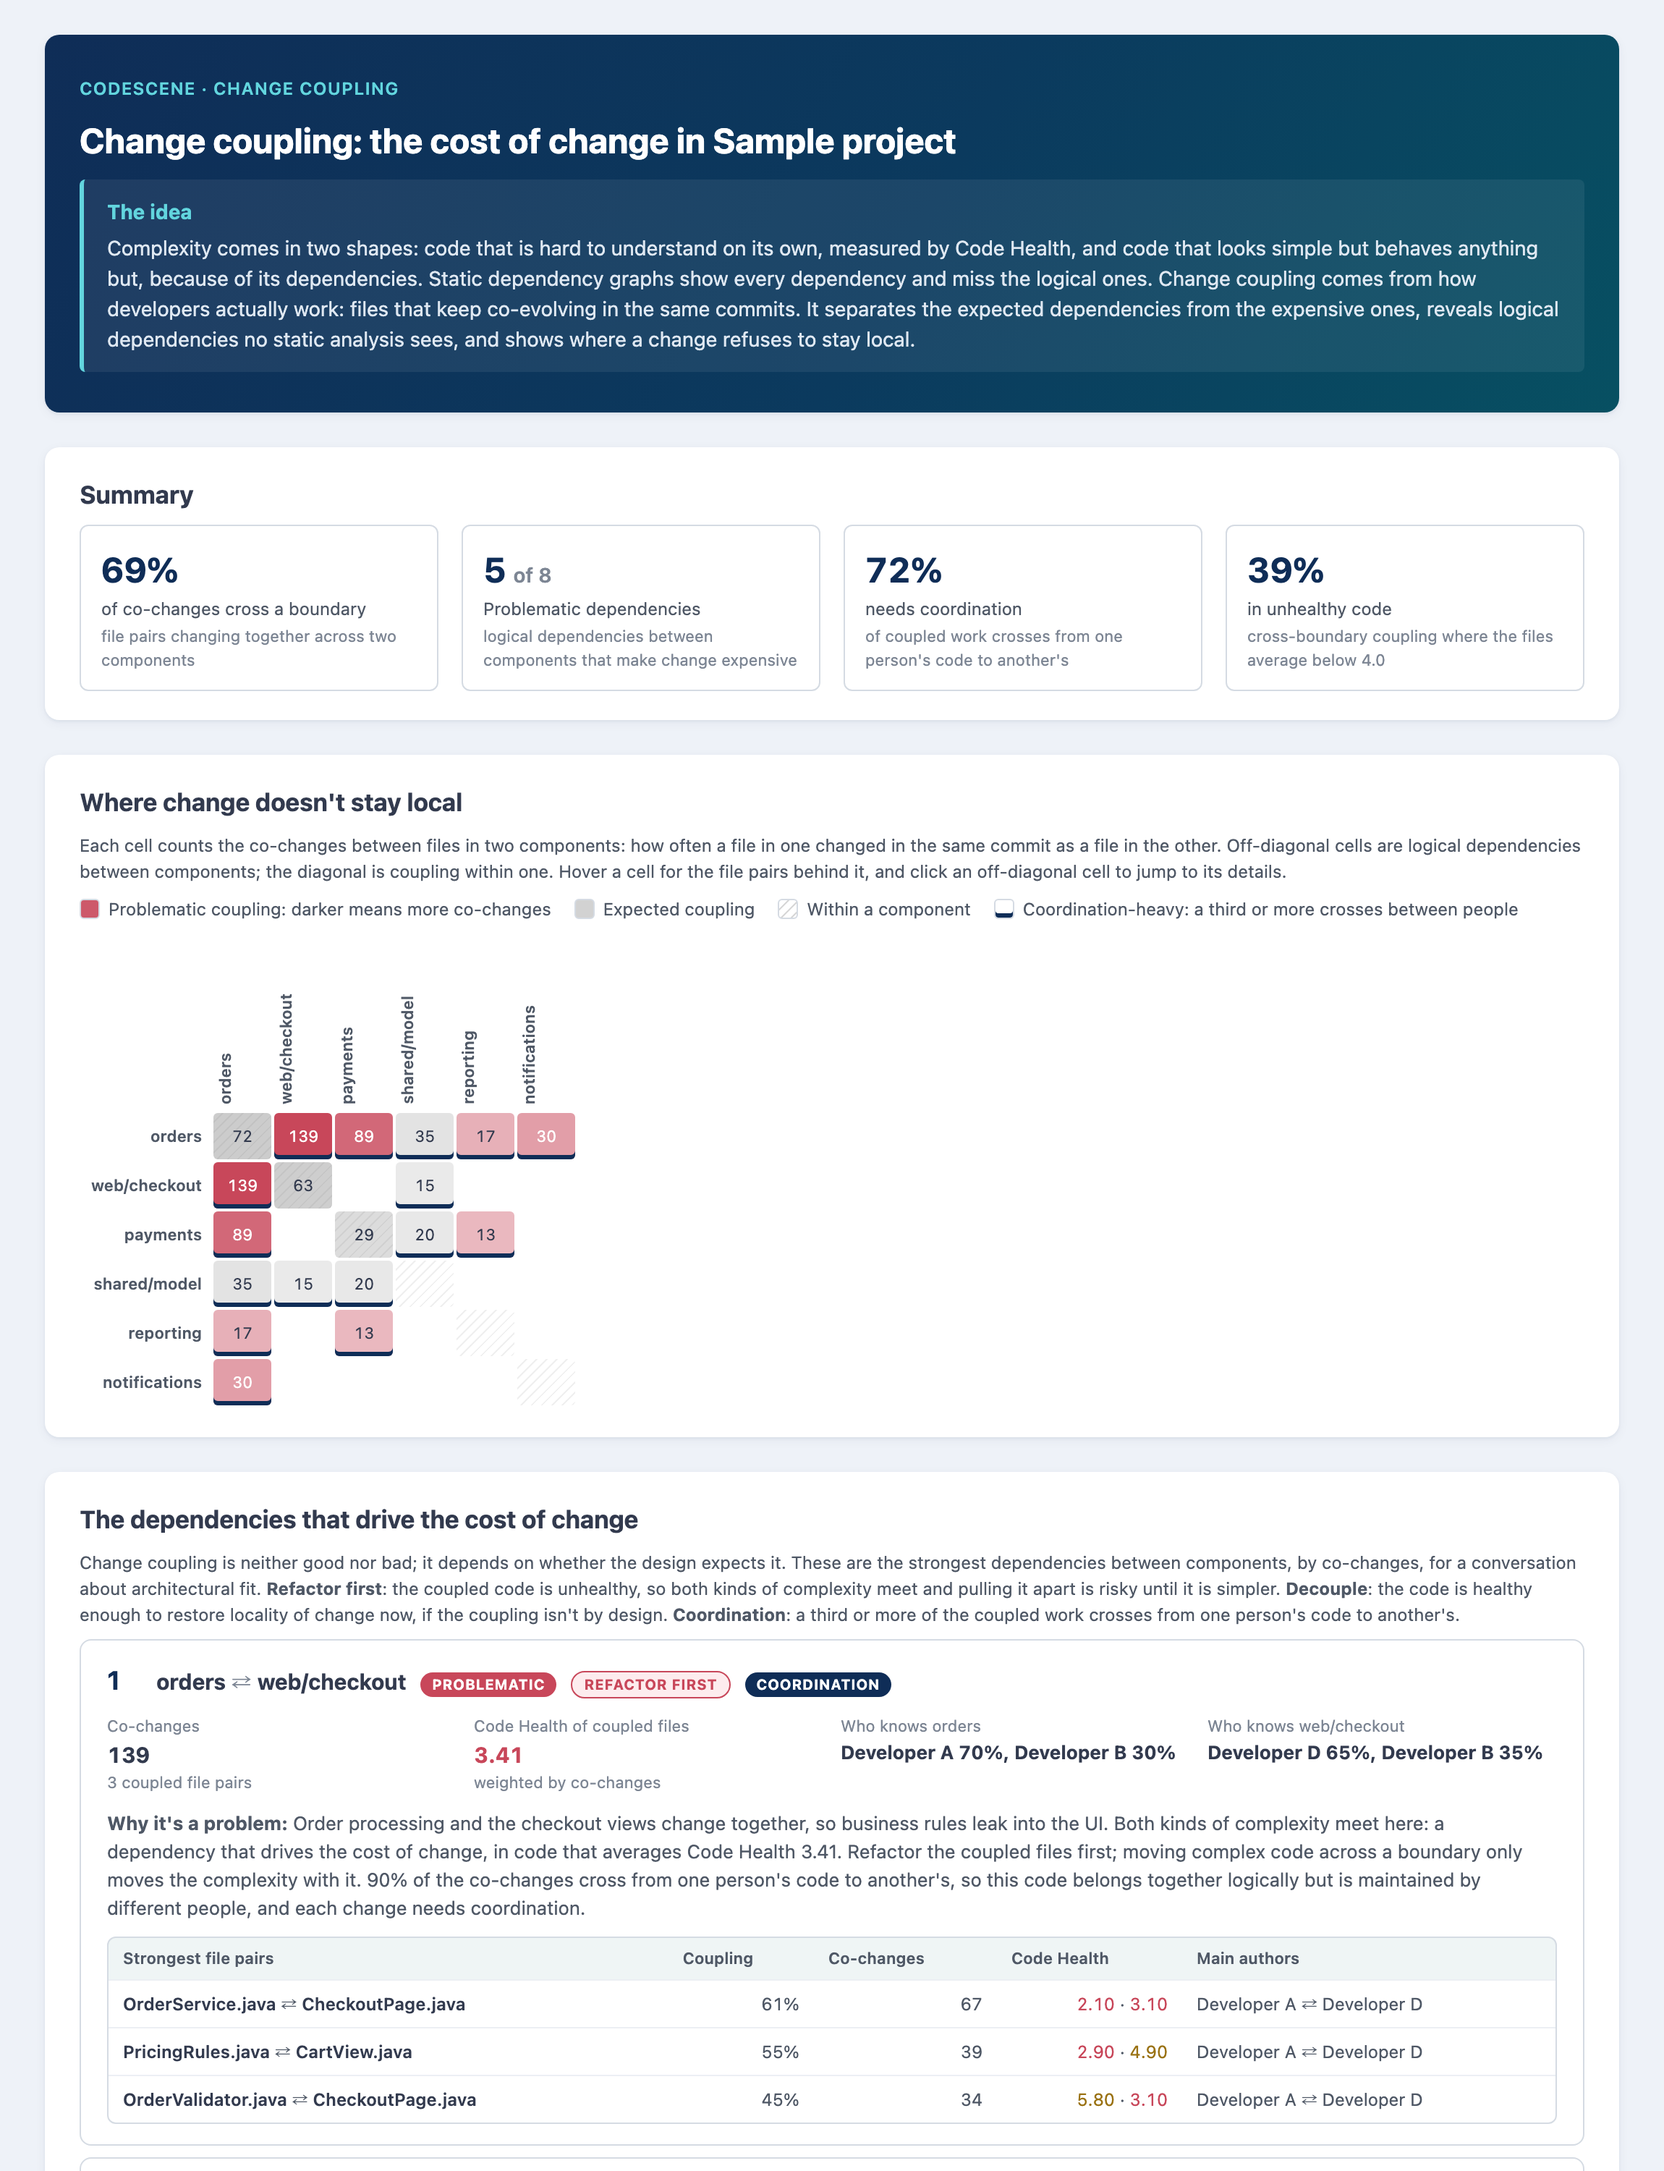
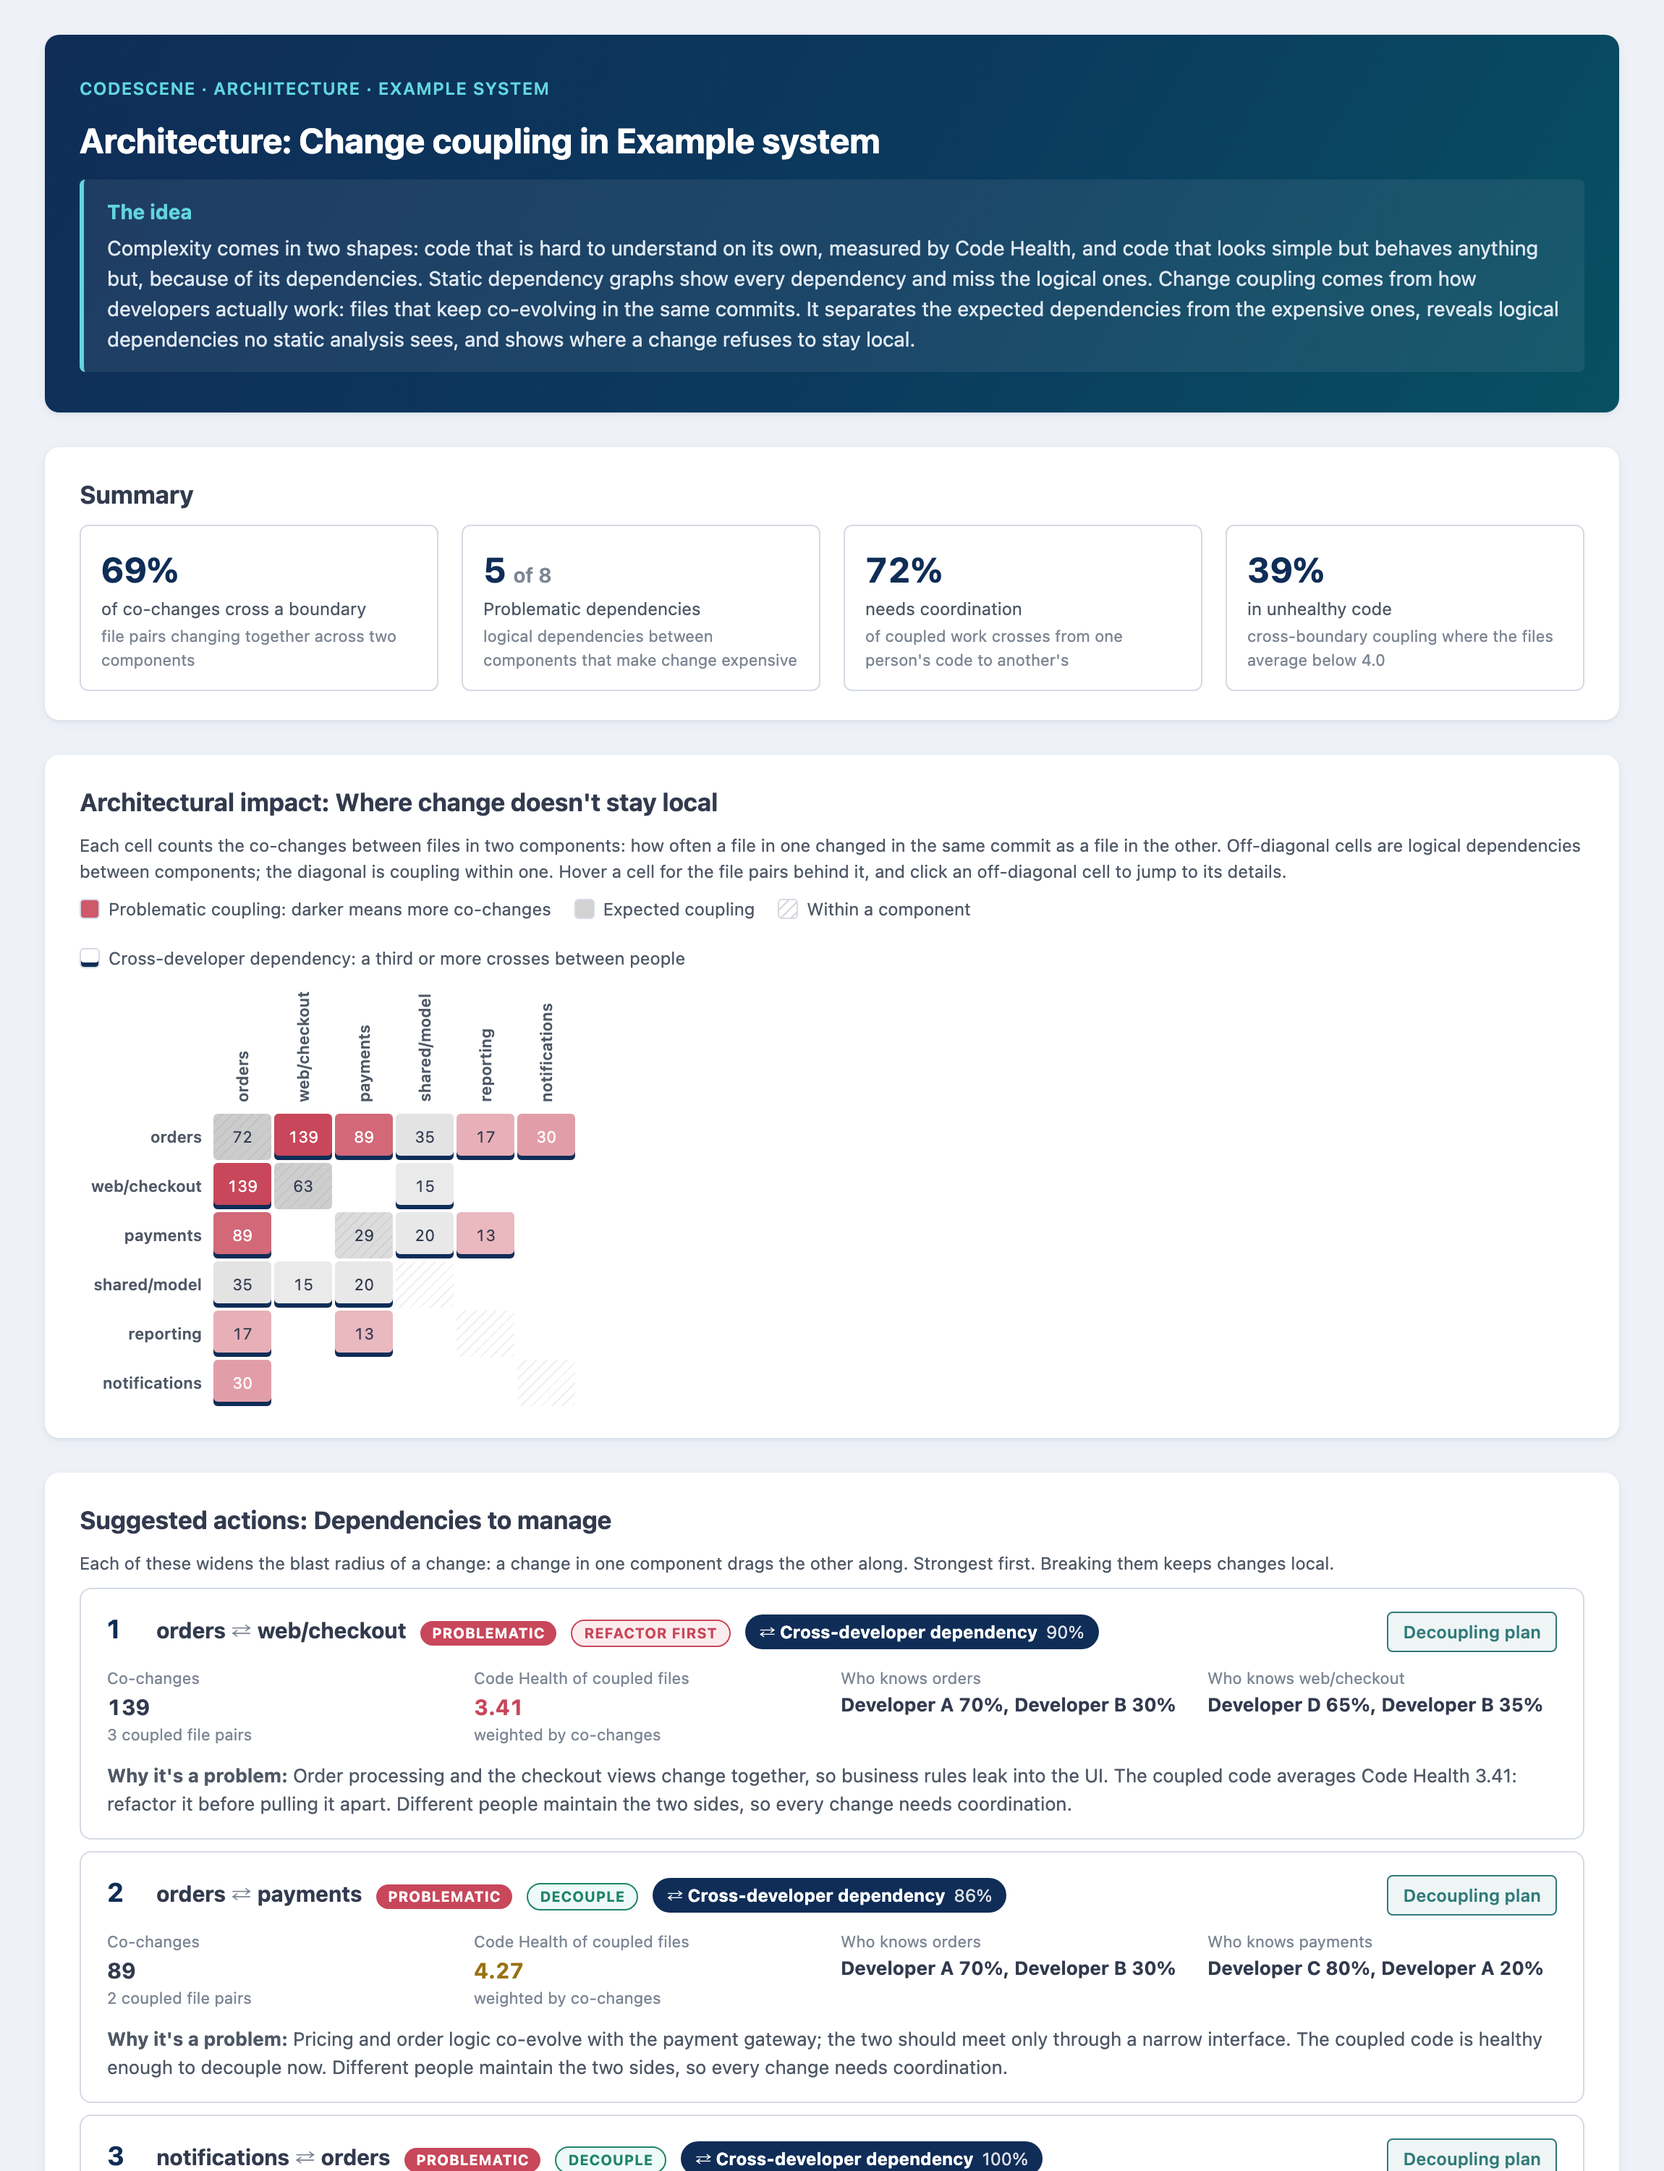
Rename the change coupling report to Architecture: Change coupling
Update the README screenshot to show the current renderer, and name the
sample project "Example system" instead of a raw placeholder.

diff --git a/skills/change-coupling/renderers/report.html b/skills/change-coupling/renderers/report.html
@@ -3,7 +3,7 @@
 <head>
 <meta charset="utf-8">
 <meta name="viewport" content="width=device-width, initial-scale=1">
-<title>Change coupling</title>
+<title>Architecture: Change coupling</title>
 <style>
   /* CodeScene theme colours. The pastel fills match the app's Code Health bubbles; the -ink variants keep
      numbers and labels readable on white, and fall back to the pastels on dark backgrounds. */
@@ -658,7 +658,7 @@
   // Page
   // -------------------------------------------------------------------------
 
-  document.title = `Change coupling · ${project.name}`;
+  document.title = `Architecture: Change coupling · ${project.name}`;
   const problematicCross = cross.filter(isProblematic);
   const expectedCross = cross.filter((e) => !isProblematic(e));
   const topCross = problematicCross.slice(0, maxDependencies);
@@ -681,8 +681,8 @@
 
   root.innerHTML = `
     <section class="hero">
-      <div class="eyebrow">CodeScene · Change coupling · ${escapeHtml(project.name)}</div>
-      <h1>Change coupling: the cost of change in ${escapeHtml(project.name)}</h1>
+      <div class="eyebrow">CodeScene · Architecture · ${escapeHtml(project.name)}</div>
+      <h1>Architecture: Change coupling in ${escapeHtml(project.name)}</h1>
       <div class="intro"><strong>The idea</strong>Complexity comes in two shapes: code that is hard to understand on its own, measured by
         Code Health, and code that looks simple but behaves anything but, because of its dependencies. Static dependency graphs show every
         dependency and miss the logical ones. Change coupling comes from how developers actually work: files that keep co-evolving in the same

diff --git a/README.md b/README.md
@@ -11,7 +11,7 @@ Everything here is generic: no project names, people or analysis numbers. Projec
 | [architectural-hotspots](skills/architectural-hotspots/SKILL.md) | Components in PAID quadrants by change activity and Code Health, with outcomes and team ROI for uplifting the ones to address first. [Details](#architectural-hotspots) |
 | [refactoring-targets](skills/refactoring-targets/SKILL.md) | CodeScene's uplift targets as a prioritized refactoring backlog for an engineering manager: why each file, where to start, who to involve, the risks to plan for and the estimated outcome, plus a refactoring spec per primary and secondary target to hand to a coding agent. [Details](#refactoring-targets) |
 | [key-person-risk](skills/key-person-risk/SKILL.md) | The project's truck factor and what leaves with each key person: CodeScene's off-boarding risks, the uplift targets that depend on one person, and the Code Health and coverage of that code. [Details](#key-person-risk) |
-| [change-coupling](skills/change-coupling/SKILL.md) | The cost of change for software architects: logical dependencies between components mined from change coupling, the coordination they force between people, and how hard each is to break given the Code Health of the coupled code. [Details](#change-coupling) |
+| [change-coupling](skills/change-coupling/SKILL.md) | The cost of change for software architects: logical dependencies between components mined from change coupling, the coordination they force between people, and how hard each is to break given the Code Health of the coupled code. [Details](#architecture-change-coupling) |
 | [portfolio-overview](skills/portfolio-overview/SKILL.md) | A one-page summary of every project you can access, for technical leaders and managers: what works well, where attention is needed, and how much of the code is AI-optimal, by hotspot Code Health. [Details](#portfolio-overview) |
 | [mcp-safeguard-insights](skills/mcp-safeguard-insights/SKILL.md) | How a project's developers use the local Code Health MCP: safeguard checks, degradations prevented before commit, uplifts, the trend over a year, the most active users and out-of-date installations. [Details](#mcp-safeguard-insights) |
 
@@ -104,11 +104,11 @@ The truck factor is the smallest number of people who could leave before a large
 - **People:** a sortable table of off-boarding risks, truck factor 1 files, and the Code Health and coverage of the code each person mainly knows.
 - **Components** led by one person or holding off-boarding risks, and **knowledge already lost** to former contributors.
 
-### Change coupling
+### Architecture: Change coupling
 
 Shows the cost of change: where a change refuses to stay local, and what it takes to fix that.
 
-![Change coupling report](docs/images/change-coupling.png)
+![Architecture: Change coupling report](docs/images/change-coupling.png)
 
 Complexity comes in two shapes: code that is hard to understand on its own, which Code Health measures, and code that looks simple but behaves anything but because of its dependencies. Static dependency graphs list every dependency and miss the logical ones. Change coupling comes from developer behaviour instead: files that keep co-evolving in the same commits. The report lifts CodeScene's file-level change coupling to the architecture. It contains:
 

diff --git a/skills/change-coupling/SKILL.md b/skills/change-coupling/SKILL.md
@@ -4,7 +4,7 @@ description: Builds a change coupling report for software architects from a Code
 disable-model-invocation: true
 ---
 
-# Change coupling report
+# Architecture: Change coupling report
 
 Produces a one-page report for software architects on the cost of change. Complexity comes in two shapes: code that is hard to understand on its own, which Code Health measures, and code that looks simple but behaves anything but because of its dependencies. Static dependency graphs list every dependency and miss the logical ones, such as services coupled through a message bus. Change coupling comes from developer behaviour instead: files that keep co-evolving in the same commits. The report lifts CodeScene's file-level change coupling to the architecture, separates the expected dependencies from the expensive ones, and combines both kinds of complexity:
 
